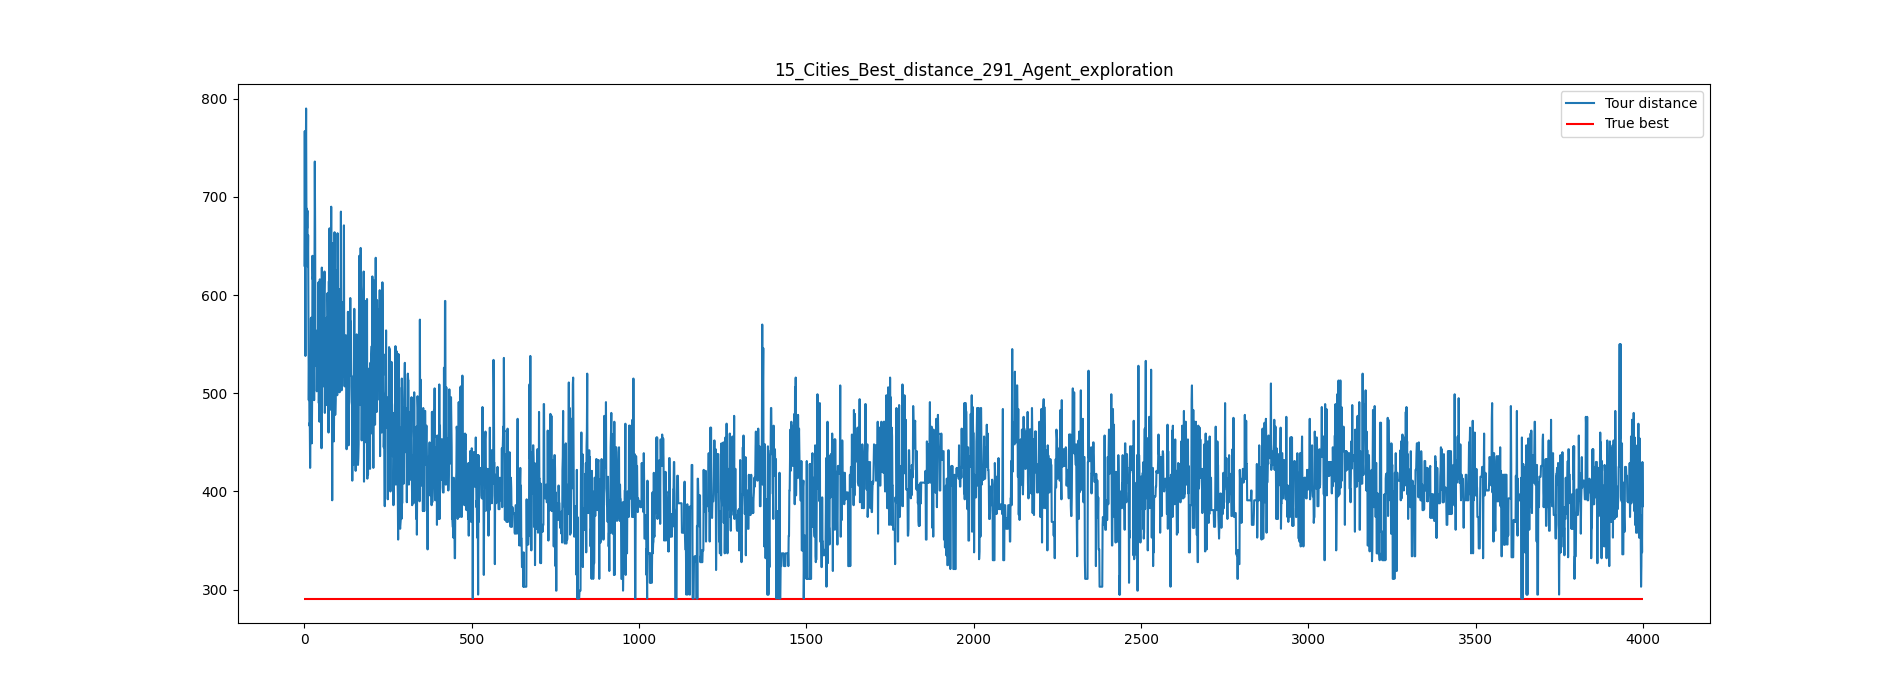
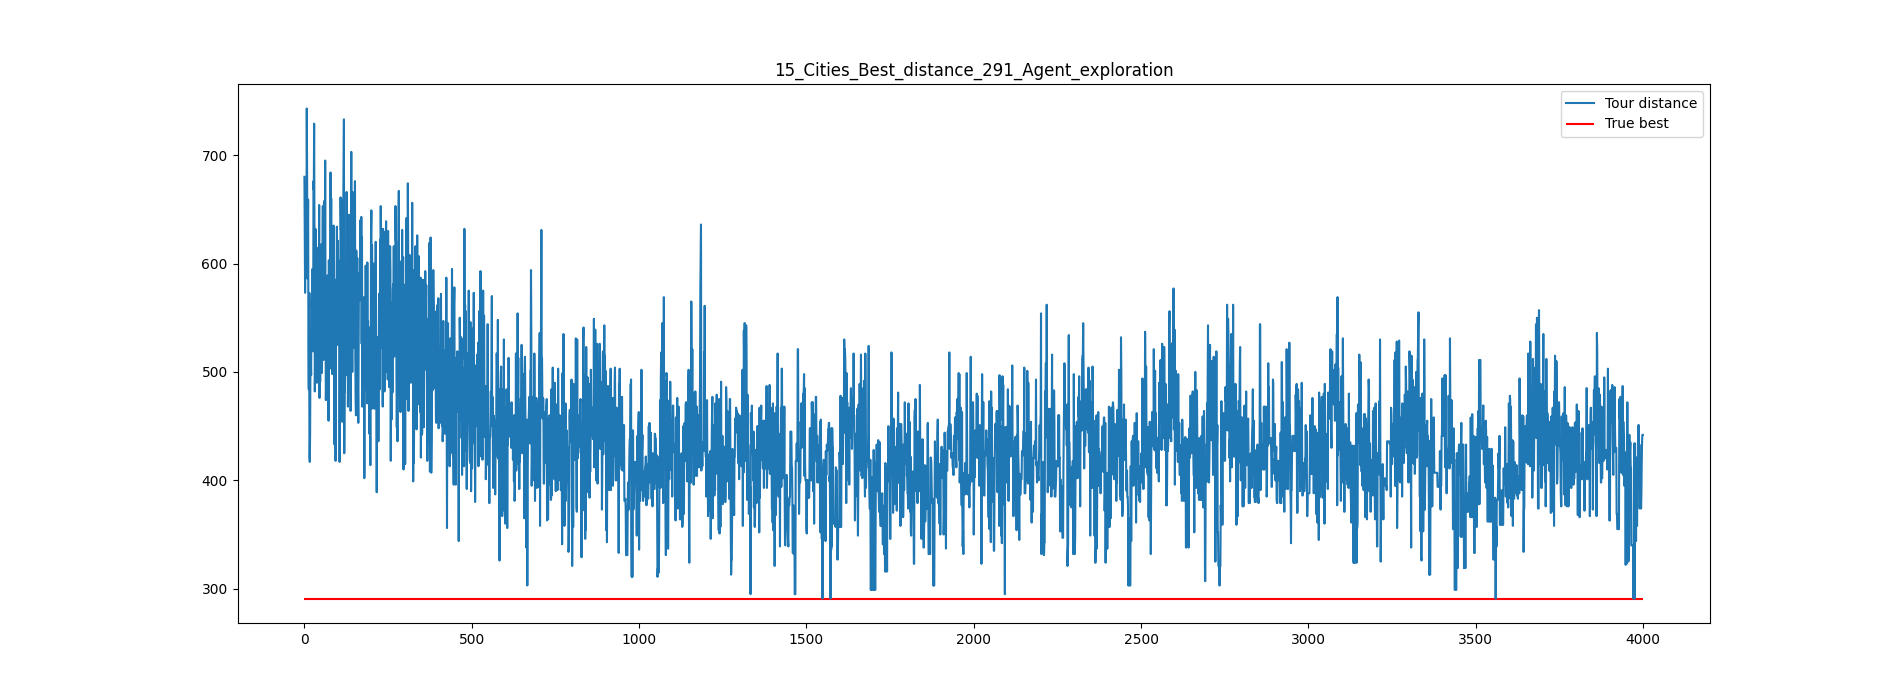
changing constants in main

diff --git a/main.py b/main.py
@@ -6,8 +6,8 @@ from src.utils import (compute_greedy_route, load_data, route_distance,
                        trace_progress, write_overall_results)
 
 EPOCHS = 4000
-LEARNING_RATE = 0.3
-GAMMA = 0.9
+LEARNING_RATE = 0.2
+GAMMA = 0.95
 EPSILON = 0.1
 
 
